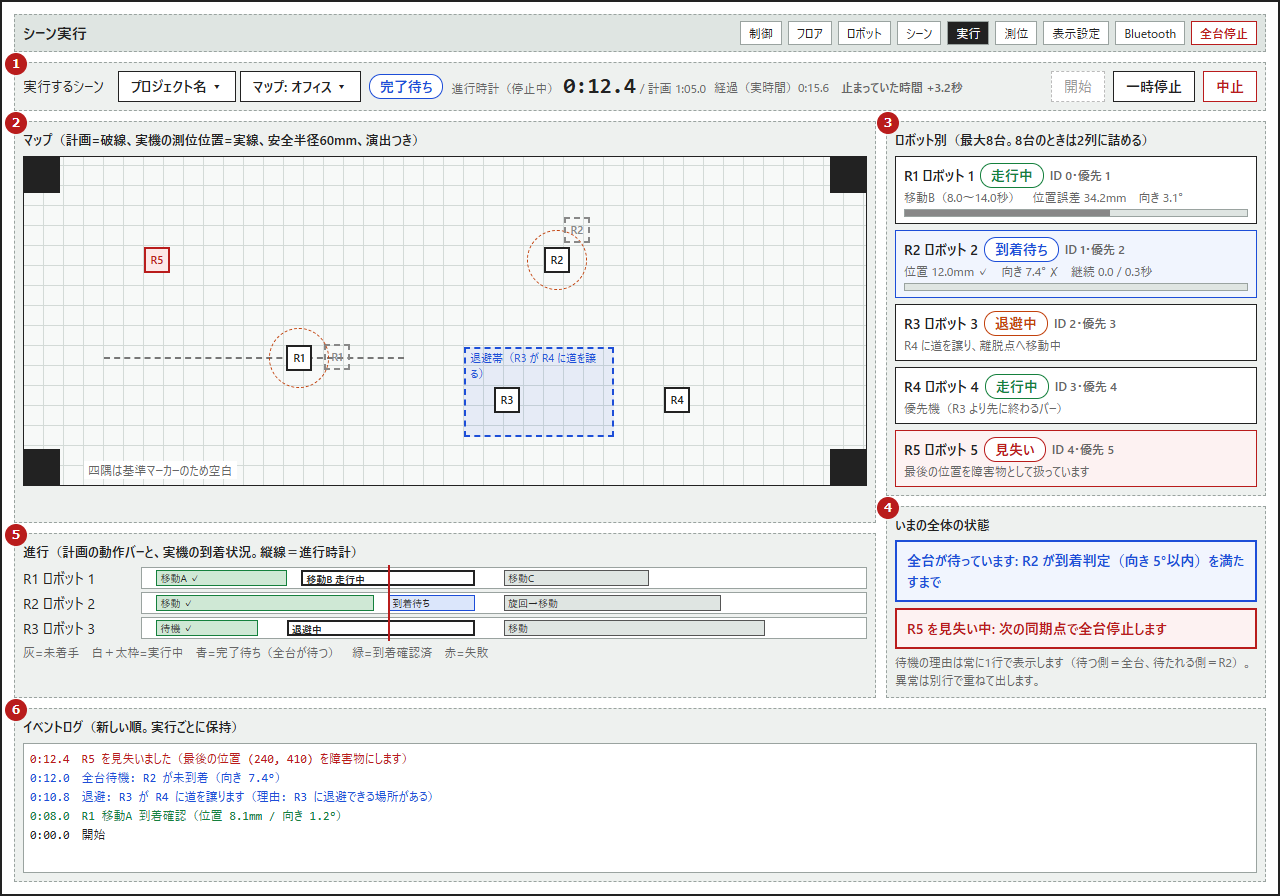
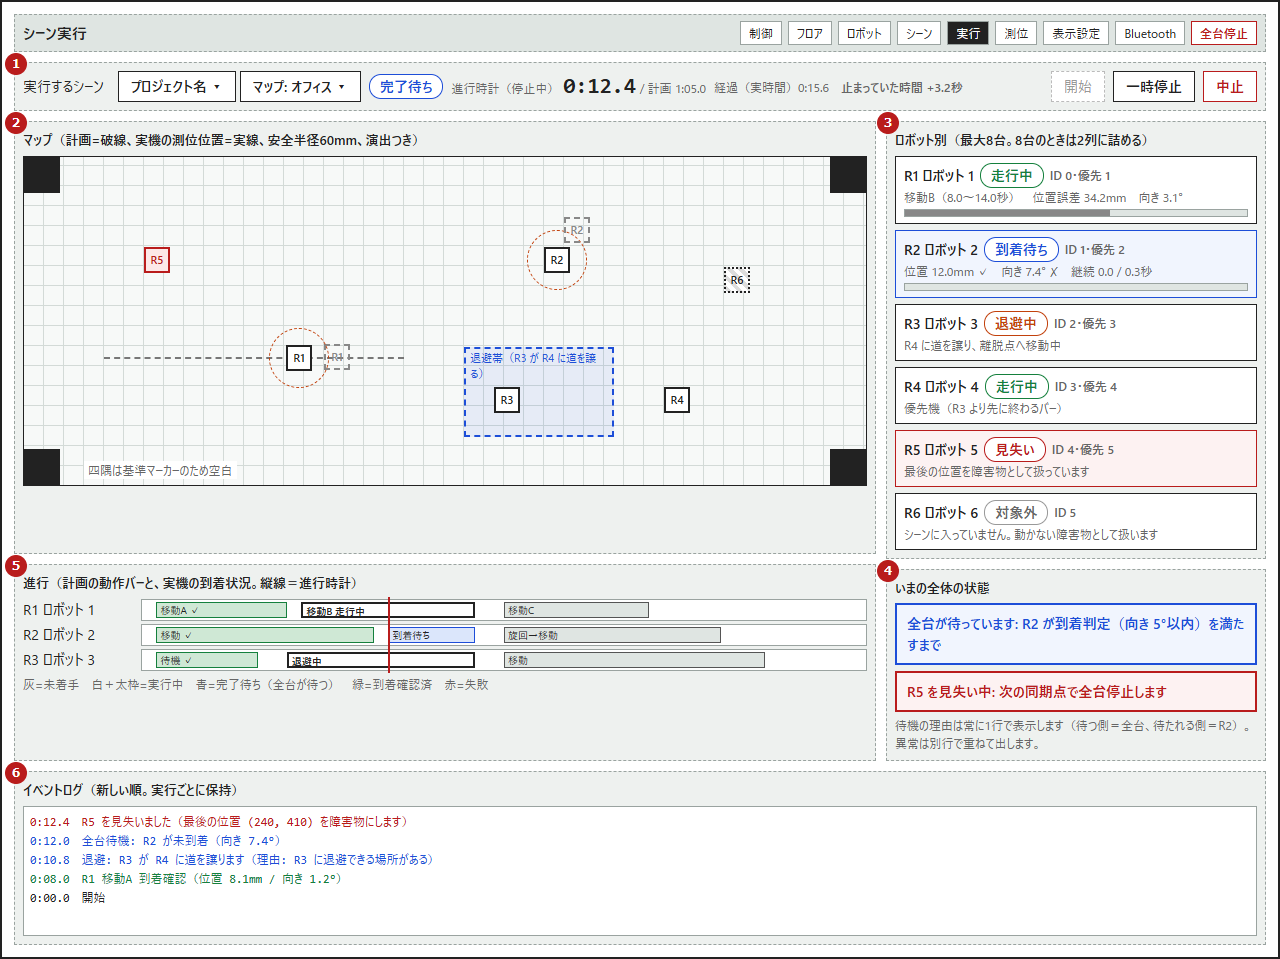
docs(wireframes): reflect the screen-usage, control hand-over, off-scene robot and initial-position decisions

diff --git a/docs/wireframes/s5-run-console.html b/docs/wireframes/s5-run-console.html
@@ -109,6 +109,7 @@
           <div class="zone" style="left:440px;top:190px;width:150px;height:90px">退避帯（R3 が R4 に道を譲る）</div>
           <div class="rob" style="left:470px;top:230px">R3</div><div class="rob" style="left:640px;top:230px">R4</div>
           <div class="rob lost" style="left:120px;top:90px">R5</div>
+          <div class="rob" style="left:700px;top:110px;border-style:dotted;background:repeating-linear-gradient(45deg,#ddd 0 4px,#fff 4px 8px)">R6</div>
           <div class="small" style="position:absolute;left:60px;bottom:6px;background:#fff;padding:0 4px">四隅は基準マーカーのため空白</div>
         </div>
       </div>
@@ -135,6 +136,8 @@
             <div class="small">優先機（R3 より先に終わるバー）</div></div>
           <div class="card bad"><div class="t">R5 ロボット 5 <span class="chip halt">見失い</span> <span class="small">ID 4・優先 5</span></div>
             <div class="small">最後の位置を障害物として扱っています</div></div>
+          <div class="card"><div class="t">R6 ロボット 6 <span class="chip idle">対象外</span> <span class="small">ID 5</span></div>
+            <div class="small">シーンに入っていません。動かない障害物として扱います</div></div>
         </div>
       </div>
       <div class="box"><i class="n">4</i><h3>いまの全体の状態</h3>
@@ -184,13 +187,19 @@
         <span class="ng">✗</span><span>全ロボットが初期位置にいる（位置20mm・向き5°）</span><span class="small">3/4</span>
         <span class="ng">✗</span><span>計画にエラーがない</span><span class="small">1件: 通行不可の動作</span>
         <span class="ok">✓</span><span>駆動デバイスが接続中</span><span class="small">4/4</span>
+        <span style="color:var(--warn);font-weight:700">!</span><span>シーンに入っていないロボットが盤面にいます（動かない障害物として扱います）</span><span class="small">R6（警告・開始はできます）</span>
       </div>
     </div>
     <div class="box"><i class="n">8</i><h3>初期位置とのずれ（✗ のロボットだけ詳しく）</h3>
       <table><tr><th>ロボット</th><th>位置のずれ</th><th>向きのずれ</th><th>対処</th></tr>
         <tr><td>R3</td><td>46mm ✗</td><td>3° ✓</td><td>マップの青い目印へ手で置き直してください</td></tr></table>
-      <div class="box" style="margin-top:8px;border-color:var(--warn)"><i class="n">8b</i><h3>初期位置へ自動で動かす（回答を反映した仮の案。範囲は確認中）</h3>
-        <div class="row"><span class="btn">初期位置へ移動</span><span class="chip warn">初期位置へ移動中</span><span class="small">全台が到着判定を満たすと「開始」が有効になります</span></div>
+      <div class="box" style="margin-top:8px;border-color:var(--warn)"><i class="n">8b</i><h3>初期位置へ自動で動かす（1台ずつ順番に、直線で）</h3>
+        <div class="row"><span class="btn">初期位置へ移動</span><span class="chip warn">初期位置へ移動中 2/3</span><span class="small">全台が到着判定を満たすと「開始」が有効になります</span></div>
+        <table style="margin-top:4px"><tr><th>順</th><th>ロボット</th><th>状態</th></tr>
+          <tr><td>1</td><td>R1</td><td class="ok">到着済み</td></tr>
+          <tr><td>2</td><td>R2</td><td>移動中（残り 120mm）</td></tr>
+          <tr><td>3</td><td>R3</td><td>待機中</td></tr></table>
+        <div class="small" style="margin-top:4px">順番は「優先順位→マーカーID」。動かしていない機体は障害物として扱います。</div>
         <div class="small" style="margin-top:4px">動かせないとき（直線が壁・家具で塞がれている等）は、この機体を ✗ にして理由を出し、手で置き直す案内に切り替えます。</div></div>
       <div class="small" style="margin-top:6px"><b>校正</b>の確認はS7（実機の校正）で追加します。S5では項目を出しません。</div>
     </div>
@@ -301,43 +310,64 @@
   </div>
 </div>
 
-<h2>W10　画面の使い分け（既存の「制御」画面の自動ルートとの切り分け）</h2>
+<h2>W10　画面の使い分け（回答を反映）</h2>
 <div class="board w1280" id="w10">
   <table>
-    <tr><th style="width:190px">やりたいこと</th><th style="width:230px">使う画面</th><th style="width:230px">動かし方</th><th style="width:90px">測位</th><th style="width:200px">対象のロボット</th><th>ほかの方法との同時利用</th></tr>
-    <tr><td>手で操縦する</td><td>制御（<code>/control</code>）の個別制御・複数制御</td><td>人が操作（前進・後退・旋回・PWM）</td><td>不要</td><td>選んだ機体（手動モード）</td><td>シーン実行中は操作できません</td></tr>
-    <tr><td>簡易デモ（時間どおりに合流する決まった動き）</td><td>制御（<code>/control</code>）の「自動ルート」<b>（いまのまま残す）</b></td><td>時間だけで動かす（開ループ）</td><td>不要</td><td>自動モードにした機体</td><td>シーン実行中は開始できません</td></tr>
-    <tr><td><b>編集したシーンを実行する</b></td><td><b>実行（<code>/run</code>）</b>（新規）</td><td>測位で補正（閉ループ）＋完了待ち＋退避</td><td>必須</td><td>シーンの行に割り当てたロボット（開始時に自動で制御を引き継ぐ）</td><td>手動操作・簡易デモの実行中は開始できません</td></tr>
+    <tr><th style="width:190px">やりたいこと</th><th style="width:250px">使う画面</th><th style="width:230px">動かし方</th><th style="width:90px">測位</th><th style="width:210px">対象のロボット</th><th>ほかの方法との同時利用</th></tr>
+    <tr><td>手で操縦する</td><td>制御（<code>/control</code>）の個別制御・複数制御<b>（手動操縦だけの画面になる）</b></td><td>人が操作（前進・後退・旋回・PWM）</td><td>不要</td><td>選んだ機体（手動モード）</td><td>実行（シーン・簡易ルート）中の機体は操作できません</td></tr>
+    <tr><td>簡易デモ（時間どおりに合流する決まった動き）</td><td>実行（<code>/run</code>）の<b>タブ「簡易ルート」</b>（制御画面から移す）</td><td>時間だけで動かす（開ループ）</td><td>不要</td><td>タブ内で選んだ機体（自動モード）</td><td>シーン実行中は開始できません</td></tr>
+    <tr><td><b>編集したシーンを実行する</b></td><td>実行（<code>/run</code>）の<b>タブ「シーン実行」</b>（新規）</td><td>測位で補正（閉ループ）＋完了待ち＋退避</td><td>必須</td><td>シーンの行に割り当てたロボット（開始時に自動で制御を引き継ぎ、終了・中止で手動へ戻す）</td><td>簡易ルート実行中は開始できません</td></tr>
     <tr><td>非常停止</td><td>ヘッダーの「全台停止」（全画面共通）</td><td>すべての方式を止める</td><td>—</td><td>全台</td><td>いつでも。シーン実行は「停止中（全台停止）」になり、再開か中止を選ぶ</td></tr>
   </table>
-  <div class="cols2" style="margin-top:10px">
-    <div class="box"><i class="n">17</i><h3>制御画面の「自動ルート」パネル（シーン実行中）</h3>
-      <div class="row"><span class="btn off">開始</span><span class="btn off">停止</span></div>
-      <div class="banner wait" style="margin-top:6px">シーン実行中のため使えません　<span class="btn" style="font-weight:400">実行画面を開く ▸</span></div>
-    </div>
-    <div class="box"><i class="n">18</i><h3>実行画面の開始ボタン（簡易デモ実行中）</h3>
-      <div class="row"><span class="btn off">開始</span></div>
-      <div class="banner wait" style="margin-top:6px">簡易ルートの実行中は開始できません　<span class="btn" style="font-weight:400">制御画面で停止 ▸</span></div>
-    </div>
-  </div>
-  <div class="small" style="margin-top:6px">簡易デモは設計書どおり残し（<code>RouteEngine</code> は変更しない）、画面の移動もしません。新しく作るのは「排他の判定」と、上の2つの案内表示だけです。</div>
+  <div class="small" style="margin-top:6px">変更する既存コードは、制御画面の UI だけです（自動ルートのパネルと、機体ごとの手動／自動の切替）。Hub の処理（<code>RouteEngine</code>、<code>setMode</code>、<code>routeStart</code>）とそのテストは変えません。制御画面にブラウザーテストはありません。</div>
 </div>
 
-<h2>決まったこと（回答をワイヤーフレームに反映済み）</h2>
-<ol class="legend">
-  <li>到着待ちの時間切れ: 一定時間（初期値30秒、設定可）で「停止中（理由: 到着待ちの時間切れ）」にして、再開か中止を待つ（W3）。</li>
-  <li>展示との連動: 実行中は展示画面の時刻＝進行時計。実行していないときだけ、手動の展示再生を使える（W8）。</li>
-  <li>展示画面の停止表示: 案B（下中央に小さく表示）に決定（W9）。</li>
-  <li>結果: 画面に表示し、「結果を保存」で JSON をダウンロード。サーバーへは自動保存しない（W5）。</li>
-  <li>実行中の編集: <b>禁止</b>（W8の帯のとおり、シーン画面は読み取り専用になる）。</li>
-</ol>
+<h2>W11　実行画面のタブ「簡易ルート」（制御画面から移す）</h2>
+<div class="board w1280" id="w11">
+  <div class="nav"><b>シーン実行</b><span>制御</span><span>フロア</span><span>ロボット</span><span>シーン</span><span class="here">実行</span><span>測位</span><span>表示設定</span><span>Bluetooth</span><span class="stop">全台停止</span></div>
+  <div class="row" style="margin-bottom:8px"><span class="btn">シーン実行</span><span class="btn primary">簡易ルート（測位なし）</span><span class="small">測位を使わず、時間どおりに動かします。位置の補正・衝突の回避はありません。</span></div>
+  <div class="grid2">
+    <div class="box"><i class="n">19</i><h3>自動ルート（いまの制御画面のパネルと同じ中身）</h3>
+      <div class="row"><span class="btn">ルートを選択 ▾</span><span class="btn primary">開始</span><span class="btn off">停止</span><span class="chip idle">停止中</span></div>
+      <div class="small" style="margin-top:6px">実行中は「実行中 · 12秒」。機体ごとの進み具合（ステップ番号）を右の一覧に出します（いまは表示なし。追加するのはこの1列のみ）。</div>
+    </div>
+    <div class="box"><i class="n">20</i><h3>対象のロボット（自動モードにした機体）</h3>
+      <div class="cards">
+        <div class="card"><div class="t">ロボット 1 <span class="small">接続中</span><span class="grow"></span><span class="btn">手動</span><span class="btn primary">自動</span></div></div>
+        <div class="card"><div class="t">ロボット 2 <span class="small">接続中</span><span class="grow"></span><span class="btn">手動</span><span class="btn primary">自動</span></div></div>
+        <div class="card"><div class="t">ロボット 3 <span class="small">未接続</span><span class="grow"></span><span class="btn off">手動</span><span class="btn off">自動</span></div></div>
+      </div>
+      <div class="small" style="margin-top:4px">手動／自動の切替は、制御画面からここへ移します（自動にした機体は、制御画面では操作できません）。</div>
+    </div>
+  </div>
+</div>
 
-<h2>追加で確認したい点（切り分けの整理のため）</h2>
+<h2>W12　制御画面（手動操縦だけになる）</h2>
+<div class="board w1280" id="w12">
+  <div class="nav"><b>フリート管理</b><span class="here">制御</span><span>フロア</span><span>ロボット</span><span>シーン</span><span>実行</span><span>測位</span><span>表示設定</span><span>Bluetooth</span><span class="stop">全台停止</span></div>
+  <div class="grid2" style="grid-template-columns: 260px 1fr">
+    <div class="box"><i class="n">21</i><h3>ロボット選択（個別／複数）</h3>
+      <div class="cards">
+        <div class="card"><div class="t">ロボット 1 <span class="small">接続中</span> <span class="chip">手動</span></div></div>
+        <div class="card"><div class="t">ロボット 2 <span class="small">接続中</span> <span class="chip warn">簡易ルート</span></div><div class="small">操作できません（実行中）　<b>実行画面を開く ▸</b></div></div>
+        <div class="card"><div class="t">ロボット 3 <span class="small">接続中</span> <span class="chip wait">シーン実行</span></div><div class="small">操作できません（実行中）　<b>実行画面を開く ▸</b></div></div>
+      </div>
+      <div class="small" style="margin-top:4px">モードの表示は読み取り専用の札（手動／簡易ルート／シーン実行）。切替ボタンは W11 へ移動。</div>
+    </div>
+    <div class="box"><h3>操縦パッド・カメラ・設定（既存のまま）</h3>
+      <div class="small">自動ルートのパネルは削除し、代わりに1行だけ表示: 「自動ルートは『実行』画面へ移動しました（実行画面を開く ▸）」</div>
+    </div>
+  </div>
+</div>
+
+<h2>決まったこと</h2>
 <ol class="legend">
-  <li><b>(A) 画面の使い分け（W10）</b>: 簡易デモは「制御」画面にそのまま残し、排他の判定と案内だけ足す案（推奨）／簡易デモを「実行」画面のタブへ移す案。</li>
-  <li><b>(B) ロボットの制御の引き継ぎ</b>: シーンの実行を開始すると、対象のロボットを自動で「自動モード」にして制御を引き継ぎ、終了・中止で「手動モード」へ戻す（推奨）／事前に「制御」画面で自動モードにしておく。</li>
-  <li><b>(C) シーンに入っていないロボットが盤面にいる場合</b>: 実行前の確認で警告し、動かない障害物として扱う（推奨）／確認の ✗ にして開始できなくする／無視する。</li>
-  <li><b>(D) 初期位置へ自動で動かす（W2）</b>: 回答では「自動で動かす」を選ばれました。この場合に必要になる動きの範囲を決めさせてください（W2の下部の案）。</li>
+  <li>画面: 新しい「実行」画面（タブ「シーン実行」「簡易ルート」）。簡易デモは制御画面から実行画面へ移す。制御画面は手動操縦だけ（W10〜W12）。</li>
+  <li>制御の引き継ぎ: シーン実行を開始すると、対象ロボットを自動で引き継ぎ、終了・中止で手動へ戻す。実行中の機体の手動操作は無効にして理由を出す。</li>
+  <li>シーン外のロボット: 実行前の確認に警告を出し、動かない障害物として扱う（W2）。</li>
+  <li>初期位置: 開始前に、1台ずつ順番に、直線で自動移動（W2の8b）。塞がれていれば、その機体は ✗ にして手で置き直す案内。</li>
+  <li>到着待ちの時間切れ: 30秒（設定可）で「停止中」。展示との連動: 実行中は展示の時刻＝進行時計。展示画面の停止表示: 案B。結果: 表示＋JSONダウンロード。実行中の編集: 禁止。</li>
 </ol>
+<div class="note"><b>承認をお願いする内容:</b> W1〜W12 とこの「決まったこと」。承認をいただいてから、実装計画（タスクの順序・テスト・検証方法）を示し、そこでも承認をいただいてから実装に入ります。</div>
 </body>
 </html>
